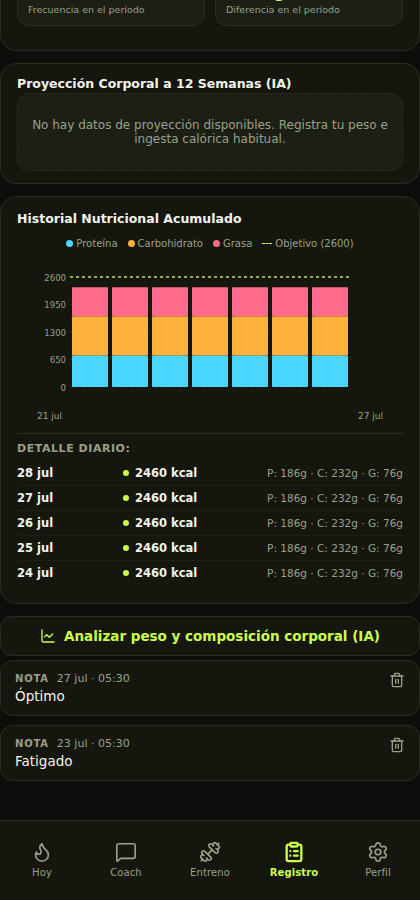
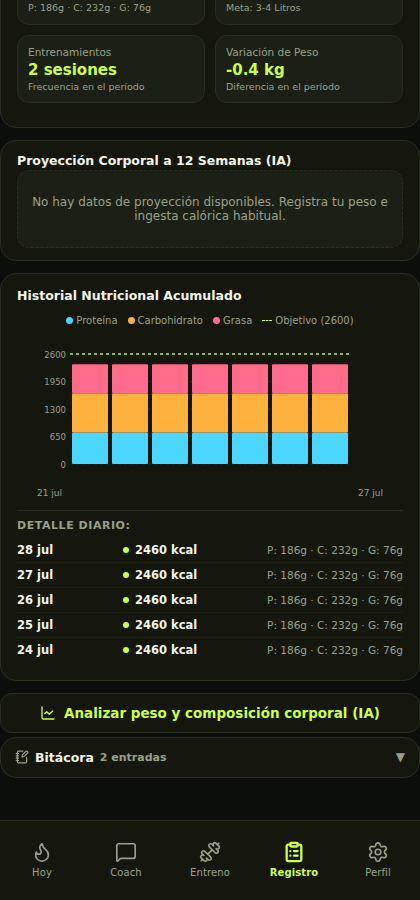
feat: la bitácora pasa a un desplegable con filtro y paginación (W33)
Cada entrada (peso, composición, sensación) ocupaba una tarjeta suelta al
final de Registro. Con meses de uso son cientos de tarjetas empujando hacia
abajo todo lo demás y obligando a hacer scroll infinito para llegar al final.

Ahora es una sola fila plegada que muestra el recuento ("Bitácora · 24
entradas") y al abrirla ofrece:
- Filtro por tipo con el número de entradas de cada uno; los tipos sin
  entradas no se muestran
- Las 20 más recientes, con un botón "Ver más" que carga 30 más cada vez, en
  vez de renderizar el histórico completo de golpe
- Tarjetas más compactas, sin la animación de entrada que hacía parpadear
  toda la lista al renderizar

Se conserva el borrado por entrada y el estado vacío.

Detectado por la escena registro-04-final añadida en el commit anterior: sin
ella este cambio también habría pasado inadvertido. 115 tests en verde en
America/Santiago y UTC.

Versión W33

Claude-Session: https://claude.ai/code/session_01QiHKHyunB4zQch9UpcZCsF

diff --git a/app.js b/app.js
@@ -1,4 +1,4 @@
-const APP_VERSION = "v2026.06.23-W32";
+const APP_VERSION = "v2026.06.23-W33";
 
 import React, { useState, useEffect, useRef, useMemo } from "react";
 import { createRoot } from "react-dom/client";
@@ -15853,6 +15853,10 @@ function Registro({
   }, [selectedDateStr, metricslog, statsPeriod]);
   const [text, setText] = useState("");
   const [weight, setWeight] = useState("");
+  // Bitácora: plegada por defecto, con filtro por tipo y paginación
+  const [bitacoraAbierta, setBitacoraAbierta] = useState(false);
+  const [notaFiltro, setNotaFiltro] = useState("todos");
+  const [notaLimite, setNotaLimite] = useState(20);
 
   // Cargar análisis guardado cuando cambia la fecha seleccionada
   const [muscInput, setMuscInput] = useState("");
@@ -17533,39 +17537,106 @@ Analiza la tendencia de peso y composición corporal, identifica si está progre
 
 
 
-      {notes.length === 0 && <div style={{color:C.muted, fontSize:13, textAlign:"center", padding:"16px 0"}}>Tu bitácora está vacía.</div>}
+      {/* ===== BITÁCORA (colapsable) =====
+          Antes cada entrada ocupaba una tarjeta suelta al final de la pestaña:
+          con meses de uso son cientos de tarjetas empujando todo lo demás.
+          Ahora va plegada, con recuento y filtro por tipo. */}
+      {(() => {
+        const TIPOS_FILTRO = [
+          { k: "todos", lbl: "Todas" },
+          { k: "peso", lbl: "Peso" },
+          { k: "composicion", lbl: "Composición" },
+          { k: "sensacion", lbl: "Sensación" },
+        ];
+        const visibles = notaFiltro === "todos"
+          ? notes
+          : notes.filter(n => (n.type || "nota") === notaFiltro);
+        const mostradas = visibles.slice(0, notaLimite);
 
-      {notes.map(n => {
-        const col = (TYPES[n.type] || ["", C.muted])[1]; 
-        const d = new Date(n.date);
         return (
-          <div key={n.id} className="pop" style={{
-            background:C.panel, 
-            border:`1px solid ${C.line}`, 
-            borderRadius:13, 
-            padding:"11px 14px", 
-            marginBottom:9, 
-            display:"flex", 
-            gap:10, 
-            alignItems:"flex-start"
-          }}>
-            <div style={{flex:1}}>
-              <div style={{display:"flex", alignItems:"center", gap:8, marginBottom:3}}>
-                <span style={{fontSize:10, fontWeight:800, letterSpacing:".08em", textTransform:"uppercase", color:col}}>
-                  {(TYPES[n.type] || ["Nota"])[0]}
+          <div style={{background:C.panel, border:`1px solid ${C.line}`, borderRadius:16, padding:"12px 14px", marginBottom:12}}>
+            <button
+              onClick={() => setBitacoraAbierta(v => !v)}
+              style={{background:"none", border:"none", cursor:"pointer", width:"100%", display:"flex", justifyContent:"space-between", alignItems:"center", padding:0}}
+            >
+              <span style={{fontSize:12.5, fontWeight:800, color:C.ink, display:"flex", alignItems:"center", gap:6}}>
+                <NotebookPen size={14} color={C.muted}/> Bitácora
+                <span style={{fontSize:11, fontWeight:600, color:C.muted}}>
+                  {notes.length === 0 ? "vacía" : `${notes.length} entrada${notes.length !== 1 ? "s" : ""}`}
                 </span>
-                <span style={{fontSize:11, color:C.muted}}>
-                  {fdate(n.date)} · {d.toLocaleTimeString("es",{hour:"2-digit",minute:"2-digit"})}
-                </span>
-              </div>
-              <div style={{fontSize:13.5}}>{n.text}</div>
-            </div>
-            <button onClick={() => del(n.id)} style={{background:"none", border:"none", cursor:"pointer", color:C.muted}}>
-              <Trash2 size={16}/>
+              </span>
+              <span style={{color:C.muted, fontSize:12}}>{bitacoraAbierta ? "▲" : "▼"}</span>
             </button>
+
+            {bitacoraAbierta && notes.length > 0 && (
+              <div style={{marginTop:10}}>
+                <div style={{display:"flex", gap:5, marginBottom:10, flexWrap:"wrap"}}>
+                  {TIPOS_FILTRO.map(t => {
+                    const n = t.k === "todos" ? notes.length : notes.filter(x => (x.type || "nota") === t.k).length;
+                    if (n === 0 && t.k !== "todos") return null;
+                    const on = notaFiltro === t.k;
+                    return (
+                      <button key={t.k} className="btn-active-scale"
+                        onClick={() => { setNotaFiltro(t.k); setNotaLimite(20); }}
+                        style={{background: on ? "rgba(205,255,74,0.12)" : "transparent",
+                          border:`1px solid ${on ? C.lime : C.line}`, borderRadius:20, padding:"4px 10px",
+                          color: on ? C.lime : C.muted, fontSize:10.5, fontWeight:700}}>
+                        {t.lbl} <span style={{opacity:.7}}>{n}</span>
+                      </button>
+                    );
+                  })}
+                </div>
+
+                {mostradas.map(n => {
+                  const col = (TYPES[n.type] || ["", C.muted])[1];
+                  const d = new Date(n.date);
+                  return (
+                    <div key={n.id} style={{
+                      background:C.panel2,
+                      border:`1px solid ${C.line}`,
+                      borderRadius:11,
+                      padding:"9px 11px",
+                      marginBottom:6,
+                      display:"flex",
+                      gap:10,
+                      alignItems:"flex-start"
+                    }}>
+                      <div style={{flex:1, minWidth:0}}>
+                        <div style={{display:"flex", alignItems:"center", gap:8, marginBottom:2}}>
+                          <span style={{fontSize:9.5, fontWeight:800, letterSpacing:".07em", textTransform:"uppercase", color:col}}>
+                            {(TYPES[n.type] || ["Nota"])[0]}
+                          </span>
+                          <span style={{fontSize:10.5, color:C.muted}}>
+                            {fdate(n.date)} · {d.toLocaleTimeString("es",{hour:"2-digit",minute:"2-digit"})}
+                          </span>
+                        </div>
+                        <div style={{fontSize:12.5, lineHeight:1.4}}>{n.text}</div>
+                      </div>
+                      <button onClick={() => del(n.id)} title="Borrar entrada"
+                        style={{background:"none", border:"none", cursor:"pointer", color:C.muted, flexShrink:0, padding:2}}>
+                        <Trash2 size={15}/>
+                      </button>
+                    </div>
+                  );
+                })}
+
+                {visibles.length > mostradas.length && (
+                  <button className="btn-active-scale" onClick={() => setNotaLimite(l => l + 30)}
+                    style={{width:"100%", marginTop:4, padding:"8px 0", borderRadius:9, border:`1px solid ${C.line}`,
+                      background:"transparent", color:C.muted, fontSize:11.5, fontWeight:700}}>
+                    Ver más ({visibles.length - mostradas.length} restantes)
+                  </button>
+                )}
+                {visibles.length === 0 && (
+                  <div style={{color:C.muted, fontSize:12, textAlign:"center", padding:"10px 0"}}>
+                    Sin entradas de este tipo.
+                  </div>
+                )}
+              </div>
+            )}
           </div>
         );
-      })}
+      })()}
     </div>
   );
 }
